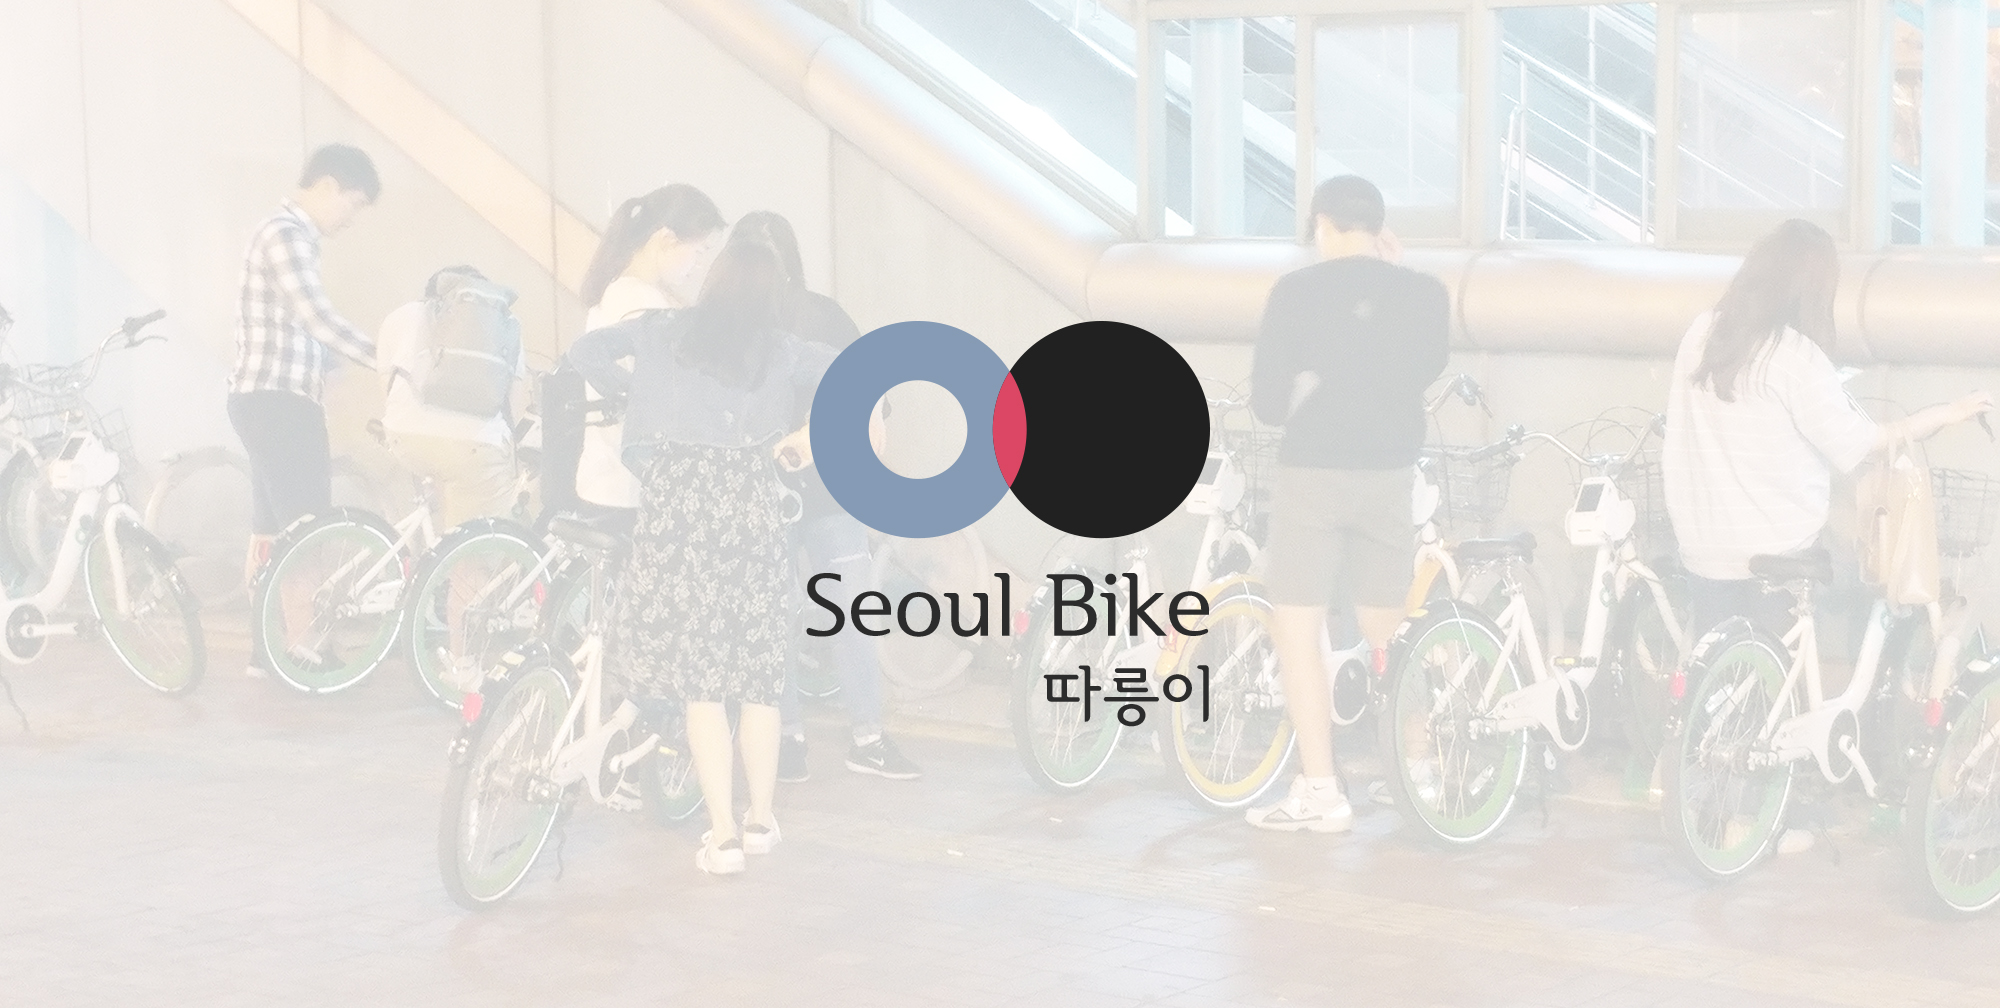
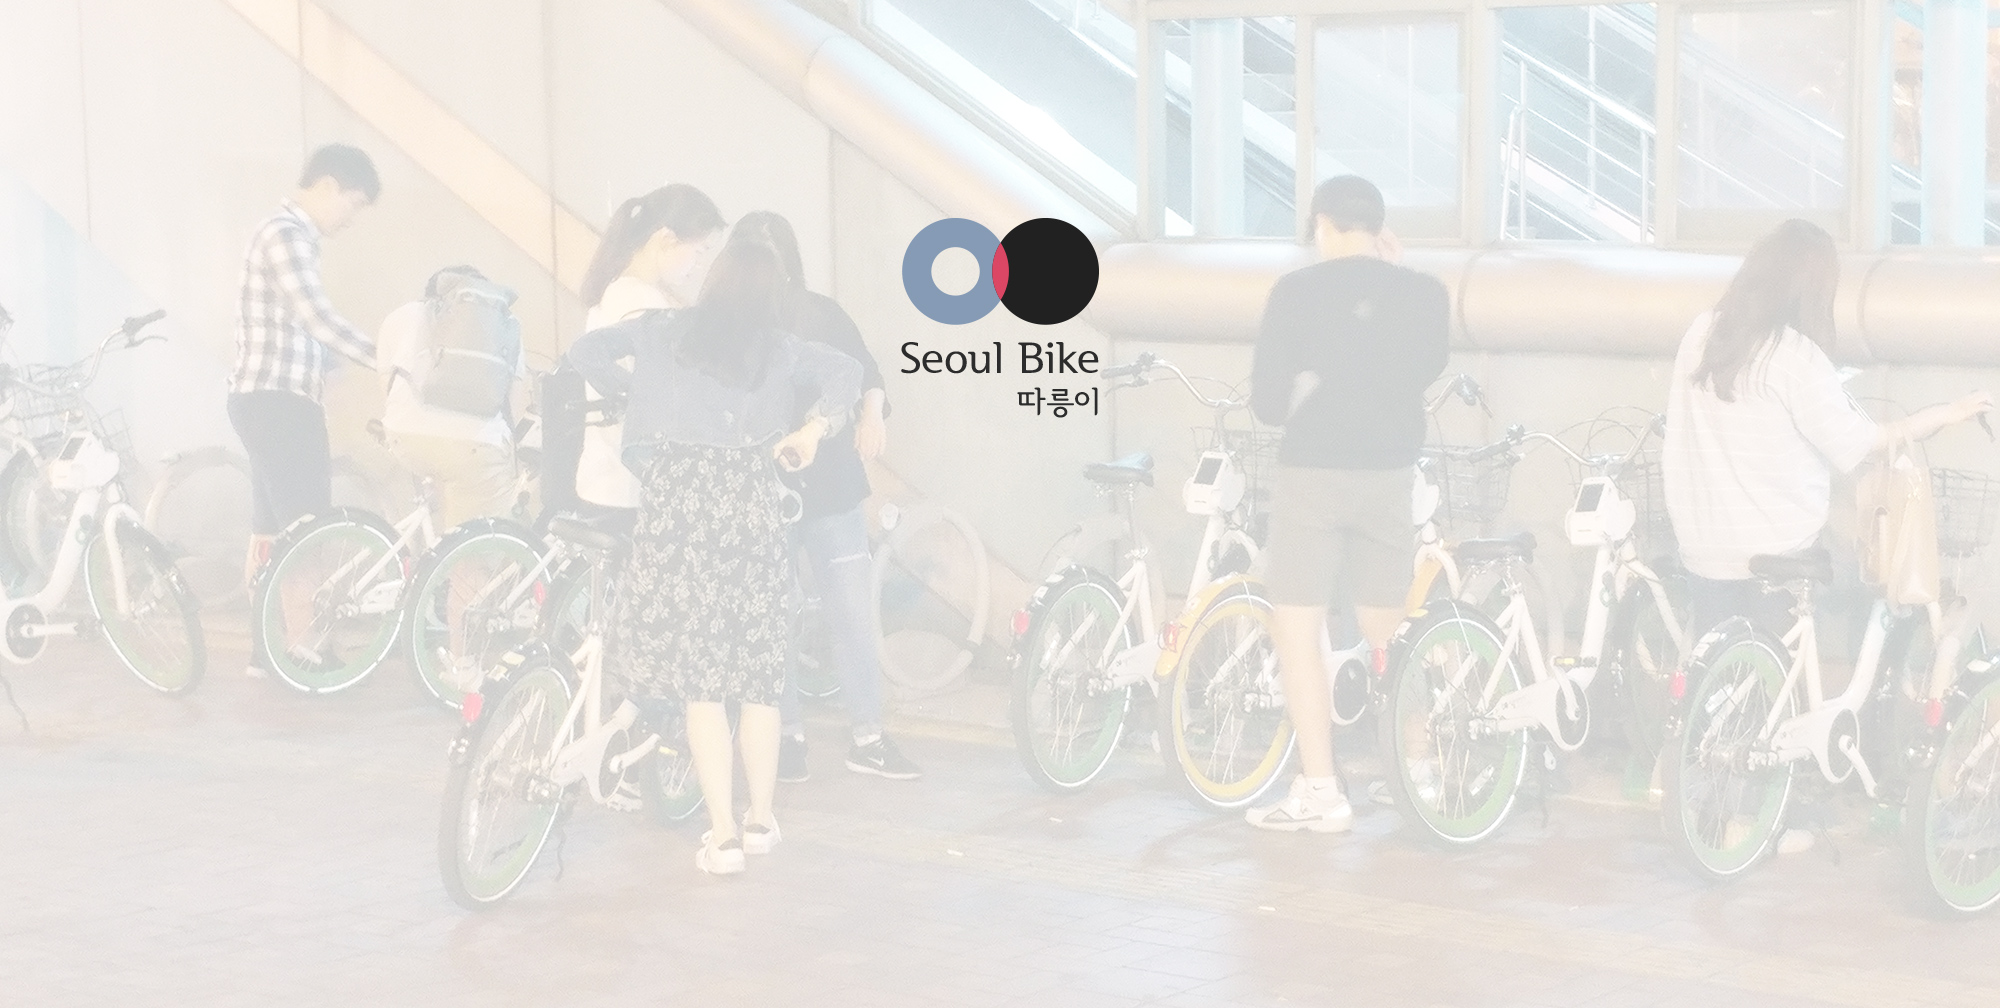
Finilized
Finizle portfolio section and minor adjustments to colour, contacts and etc.

Changed region(s): [[0.403, 0.2153, 0.62, 0.7381]]

diff --git a/index.html b/index.html
@@ -102,14 +102,17 @@
       <div class="row">
         <div class="col-lg-10 mx-auto">
           <div class="row">
+            <!-- <div class="col-lg-6">
+              <h2>Professionally</h2>
+            </div> -->
+            <!-- <div class="col-lg-6">
+              <h2>Personally</h2>
+            </div> -->
+          </div>
+          <div class="row">
             <div class="col-lg-6">
               <h2>Professionally</h2>
             </div>
-            <div class="col-lg-6">
-              <h2>Personally</h2>
-            </div>
-          </div>
-          <div class="row">
             <div class="col-lg-6">
               <p>I am a designer master-planning an eco-themed resort as part of
                 <a href="http://www.code.co.kr/" target="_blank">Code and Associates</a>, a Design Agency in Seoul, Korea. I have worked with
@@ -119,13 +122,15 @@
               </p>
             </div>
             <div class="col-lg-6">
+              <h2>Personally</h2>
+            </div>
+            <div class="col-lg-6">
               <p> I am a baseball enthusiast (KBO and MLB) and if my team is in town you can find me in the ballpark.
                 <br>I like to read a book or an article on Medium. I love weightlifting and bicycling. From time to time I fire
                 my
                 <i class="fab fa-nintendo-switch"></i> and go on a trip to another world.</p>
             </div>
           </div>
-          <a id="btn-skills" class="btn btn-dark btn-xl js-scroll-trigger" href="#services">What are my skills?</a>
         </div>
       </div>
     </div>
@@ -135,7 +140,7 @@
   <section class="content-section bg-primary text-white text-center" id="services">
     <div class="container">
       <div class="content-section-heading">
-        <h2 class="mb-5">What can I offer you?</h2>
+        <h2 class="mb-5">How I may help you.</h2>
       </div>
       <div class="row">
         <div class="col-lg-3 col-md-6 mb-5 mb-lg-0">
@@ -167,7 +172,7 @@
         </div>
         <div class="col-lg-3 col-md-6">
           <span class="service-icon rounded-circle mx-auto mb-3">
-<i class="fas fa-universal-access" style="font-size: 3rem; line-height: 6rem;"></i>
+            <i class="fas fa-universal-access" style="font-size: 3rem; line-height: 6rem;"></i>
           </span>
           <h4>
             <strong>Universal Access Oriented</strong>
@@ -181,8 +186,9 @@
   <!-- Callout -->
   <section class="callout">
     <div class="container text-center">
-      <h2 class="mx-auto mb-5">Seoul Bike Case Study</h2>
-<a class="btn btn-download btn-xl" href="https://medium.freecodecamp.org/seoul-bike-case-study-6ac4172f7188">Read Here</a>
+      <h2 id="callout-title" class="mx-auto mb-5">Case Study</h2>
+      <h3 id="callout-subtitle" class="mx-auto mb-5">With a free Sketch UI Kit!</h3>
+      <a class="btn btn-download btn-xl" href="https://medium.freecodecamp.org/seoul-bike-case-study-6ac4172f7188">Read Here</a>
     </div>
   </section>
 
@@ -191,70 +197,91 @@
     <div class="container">
       <div class="content-section-heading text-center">
         <h3 class="text-secondary mb-0">Portfolio</h3>
-        <h2 class="mb-5">Recent Projects</h2>
+        <h2 class="mb-5">Works(Under Construction)</h2>
       </div>
       <div class="row no-gutters">
         <div class="col-lg-6">
           <a class="portfolio-item" href="#">
             <span class="caption">
               <span class="caption-content">
-                <h2>UX/UI Design</h2>
+                <h2>UX/UI/Service</h2>
                 <p class="mb-0">Seoul Bike</p>
               </span>
             </span>
-            <img class="img-fluid" src="img/" alt="">
+            <img class="img-fluid" src="img/seoulbike_all.jpg" alt="">
           </a>
         </div>
         <div class="col-lg-6">
           <a class="portfolio-item" href="#">
             <span class="caption">
               <span class="caption-content">
-                <h2>UX/UI Design</h2>
-                <p class="mb-0">Hannam Home IoT</p>
+                <h2>UX/UI</h2>
+                <p class="mb-0">Handam Home IoT</p>
               </span>
             </span>
-            <img class="img-fluid" src="img/" alt="">
+            <img class="img-fluid" src="img/handamiot.jpg" alt="">
           </a>
         </div>
         <div class="col-lg-6">
           <a class="portfolio-item" href="#">
             <span class="caption">
               <span class="caption-content">
-                <h2>Product/BI</h2>
+                <h2>Product/UX/BI</h2>
                 <p class="mb-0">Daedong City Tractor</p>
               </span>
             </span>
-            <img class="img-fluid" src="img/" alt="">
+            <img class="img-fluid" src="img/wonang.jpg" alt="">
           </a>
         </div>
         <div class="col-lg-6">
           <a class="portfolio-item" href="#">
             <span class="caption">
               <span class="caption-content">
-                <h2>Master Planning</h2>
+                <h2>Master Planning/Service</h2>
                 <p class="mb-0">Project ECO</p>
               </span>
             </span>
-            <img class="img-fluid" src="img/" alt="">
+            <img class="img-fluid" src="img/project-eco.jpg" alt="">
+          </a>
+        </div>
+        <div class="col-lg-6">
+          <a class="portfolio-item" href="#">
+            <span class="caption">
+              <span class="caption-content">
+                <h2>Service/UX/BX</h2>
+                <p class="mb-0">Signal</p>
+              </span>
+            </span>
+            <img class="img-fluid" src="img/signal.jpg" alt="">
+          </a>
+        </div>
+        <div class="col-lg-6">
+          <a class="portfolio-item" href="#">
+            <span class="caption">
+              <span class="caption-content">
+                <h2>BI</h2>
+                <p class="mb-0">B Art Cooperative</p>
+              </span>
+            </span>
+            <img class="img-fluid" src="img/bart.jpg" alt="">
           </a>
         </div>
       </div>
     </div>
   </section>
 
-  <!-- Call to Action -->
-  <section class="content-section bg-primary text-white">
-    <div class="container text-center">
-      <h2 class="mb-4">The buttons below are impossible to resist...</h2>
-      <a href="#" class="btn btn-xl btn-light mr-4">Click Me!</a>
-      <a href="#" class="btn btn-xl btn-dark">Look at Me!</a>
-    </div>
-  </section>
-
   <!-- Footer -->
-  <footer class="footer text-center">
+  <footer class="footer text-center" id="contact">
+    <div class="content-section-heading text-center">
+      <h2 class="mb-5">Contact</h2>
+    </div>
     <div class="container">
       <ul class="list-inline mb-5">
+        <li class="list-inline-item">
+          <a class="social-link rounded-circle text-white mr-3" href="mailto:martintotev89@gmail.com">
+            <i class="far fa-envelope"></i>
+          </a>
+        </li>
         <li class="list-inline-item">
           <a class="social-link rounded-circle text-white mr-3" href="https://twitter.com/martintotevUX">
             <i class="icon-social-twitter"></i>

diff --git a/css/main.min.css b/css/main.min.css
@@ -16,7 +16,8 @@ body {
 }
 
 .btn-xl {
-    padding: 1.25rem 2.5rem
+    padding: 1.25rem 2.5rem;
+    margin: 1.25rem;
 }
 
 .content-section {
@@ -43,7 +44,7 @@ h6 {
 }
 
 .text-faded {
-    color: rgba(255, 255, 255, .7)
+    color: rgba(255, 255, 255, 0.836)
 }
 
 .map {
@@ -128,7 +129,7 @@ h6 {
     -o-transition: all .4s ease 0s;
     transition: all .4s ease 0s;
     transform: translateX(250px);
-    background: #1d809f;
+    background: #212529;
     border-left: 1px solid rgba(255, 255, 255, .1)
 }
 
@@ -151,7 +152,7 @@ h6 {
 .sidebar-nav li a:hover {
     text-decoration: none;
     color: #fff;
-    background: rgba(255, 255, 255, .2)
+    background: #495057;
 }
 
 .sidebar-nav li a:active,
@@ -196,7 +197,7 @@ h6 {
     height: 50px;
     text-align: center;
     color: #fff;
-    background: rgba(52, 58, 64, .5);
+    background: #212529;
     line-height: 50px;
     z-index: 999
 }
@@ -207,12 +208,12 @@ h6 {
 }
 
 .menu-toggle:hover {
-    background: #343a40
+    background: #495057
 }
 
 .service-icon {
     background-color: #f8f9fa;
-    color: #868e96;
+    color: #212529;
     height: 6rem;
     width: 6rem;
     display: block;
@@ -234,6 +235,15 @@ h6 {
     font-weight: 700;
     display: block;
     max-width: 30rem
+}
+
+#callout-title {
+    margin-bottom: .5rem !important;
+    margin-top: 10rem;
+}
+
+#callout-subtitle {
+    margin-bottom: 1rem !important;
 }
 
 .portfolio-item {
@@ -313,13 +323,13 @@ footer.footer .social-link {
     width: 4rem;
     line-height: 4.3rem;
     font-size: 1.5rem;
-    background-color: #1d809f;
+    background-color: #ced4da;
     transition: background-color .15s ease-in-out;
     box-shadow: 0 3px 3px 0 rgba(0, 0, 0, .1)
 }
 
 footer.footer .social-link:hover {
-    background-color: #155d74;
+    background-color: #495057;
     text-decoration: none
 }
 
@@ -382,12 +392,22 @@ a:hover {
     font-weight: 700
 }
 
+.btn-invisible{
+    font-weight: 700;
+    font-size: 2rem;
+    padding: 1rem !important;
+    
+}
+
 #btn-skills {
-    margin-top: 2em;
+    border-color: #fff;
+    border: 1px;
+    /* margin-top: 2em; */
+    padding: 2rem;
 }
 
 .bg-primary {
-    background-color: #495057 !important
+    background-color: #212529 !important
 }
 
 .text-primary {
@@ -400,4 +420,10 @@ a:hover {
 
 #case-study {
     margin-top: 2em;
+}
+
+#about {
+    margin-bottom: 10rem;
+    /* margin-top: 10rem; */
+    padding-top: 14rem;
 }

diff --git a/README.md b/README.md
@@ -1,5 +1,7 @@
 # martintotev.github.io
-My personal website/portfolio
+My portfolio
+
+Based on the Stylish Portfolio by Start Bootstrap, and personally modified by me. This portfolio will be my learning/experimenting with HTML/CSS/JS thus being in a constant state of "Under Construction".
 
 # [Start Bootstrap - Stylish Portfolio](https://startbootstrap.com/template-overviews/stylish-portfolio/)
 
